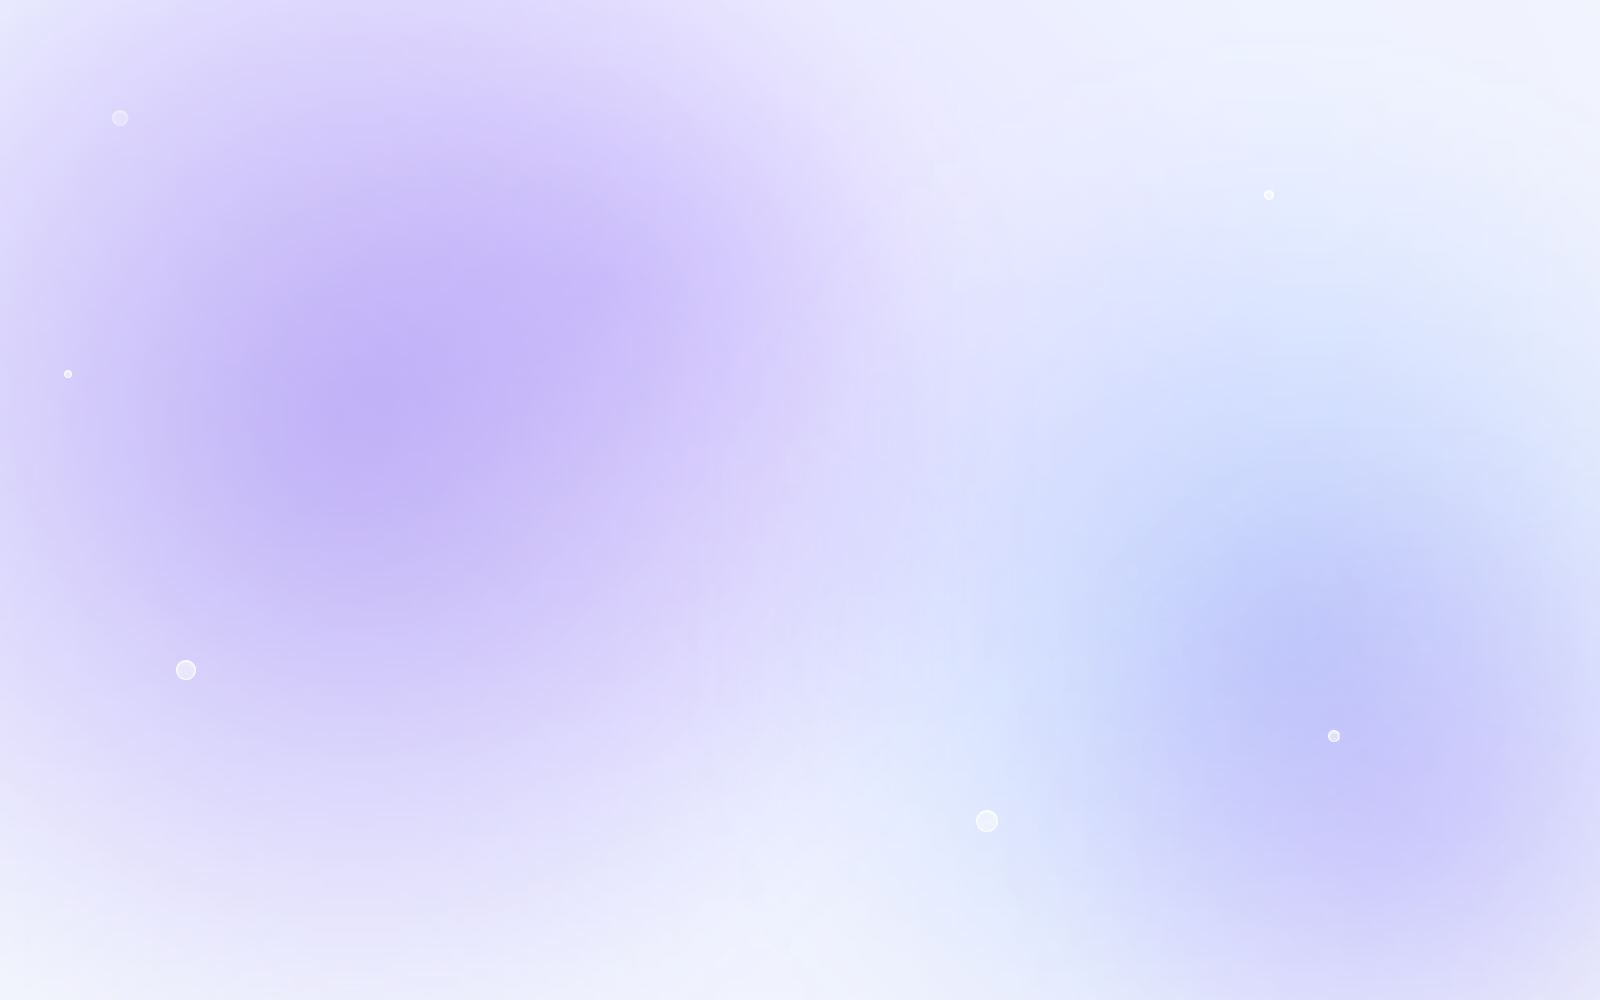
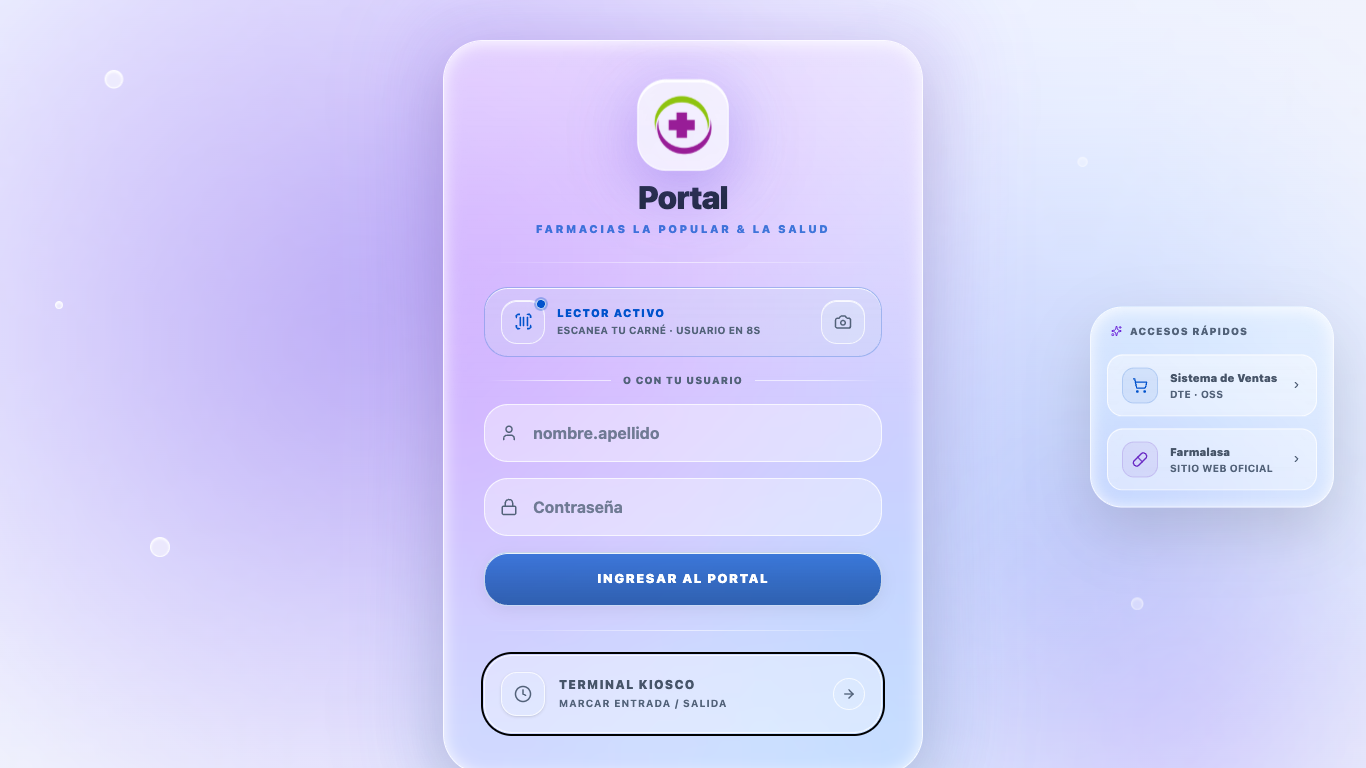
fix(a11y): contraste en CERO — y dos de los tres fallos restantes eran del medidor (v2.227.0)
Contraste en los temas Solid: 23 -> 0.

Corregido de verdad, uno solo: `--danger-text` #f87171 media 4.43:1 sobre el
TINTE del badge danger (#462e3a = tarjeta + danger/12), justo bajo AA. Sobre la
tarjeta plana daba 5.29 y por eso habia pasado siempre. Ahora #fb9a9a: 5.95 /
7.1 / 8.66 sobre tinte, tarjeta y pagina. Mas 17 `text-danger|success|warning`
de AttendanceAuditView que usaban el token de RELLENO como color de texto.

Los otros dos NO eran defectos, y vale anotar por que:
· Los 6 nodos de "General" a 2.51:1 eran la etiqueta de un tab inactivo de
  ViewTabBar medida A MITAD de su transicion de 700ms. El alfa de 0.97 y un
  color que no correspondia a ningun token lo delataron. Con la espera
  correcta: 0.
· Los 2 targets de 36px del kiosco eran mi contexto de Playwright sin
  `hasTouch`. El kiosco real es una pantalla tactil: con `pointer: coarse` los
  mismos botones miden 44.

PENDIENTES CERRADOS
· Kiosco — fuerza data-theme="dark" como esta documentado, 0 bajo AA, 0 targets
  bajo 44 en tactil, 0 errores de pagina.
· Login — 0 targets bajo 44 y 0 controles sin indicador de foco.
· Estados de error de formulario — validacion disparada en vacio con guardia de
  red: 4 marcas de error, 210 nodos, 0 bajo AA.
· Firefox — NO se pudo verificar: no arranca en este entorno (el sandbox le
  bloquea plugin-container). Si se verifico el riesgo concreto que el proyecto
  ya sufrio ahi: en el bundle hay 37 `backdrop-filter` estandar / 37 con
[…]

diff --git a/src/views/AttendanceAuditView.jsx b/src/views/AttendanceAuditView.jsx
@@ -539,14 +539,14 @@ function DayCard({ dateStr, emp, shiftById, timesheets, homeBranchId, branchName
           <div className="flex flex-wrap gap-4">
             {/* Entrada */}
             <div className="flex items-center gap-2">
-              <LogIn size={13} className={entryPunch ? 'text-success' : 'text-content-3'} strokeWidth={2.5} />
+              <LogIn size={13} className={entryPunch ? 'text-success-text' : 'text-content-3'} strokeWidth={2.5} />
               <div>
                 <p className="text-micro font-black uppercase tracking-widest text-content-2">Entrada</p>
                 {entryPunch ? (
                   <div className="flex items-center gap-1.5">
                     <p className="text-body font-black text-content">{fmtTimeCSTStr(entryPunch.timestamp)}</p>
                     {lateMin > 0 && <Badge variant="chart-4" size="sm" uppercase={false}>+{lateMin} min</Badge>}
-                    {isEditedPunch(entryPunch) && <span className="text-micro font-black text-success">✎</span>}
+                    {isEditedPunch(entryPunch) && <span className="text-micro font-black text-success-text">✎</span>}
                   </div>
                 ) : (
                   <p className="text-label font-black text-content-3">—</p>
@@ -563,8 +563,8 @@ function DayCard({ dateStr, emp, shiftById, timesheets, homeBranchId, branchName
                   <div className="flex items-center gap-1.5">
                     <p className="text-body font-black text-content">{fmtTimeCSTStr(exitPunch.timestamp)}</p>
                     {isAutoPunch(exitPunch)  && <span className="text-micro font-black text-chart-3-text">Auto</span>}
-                    {isPendingPunch(exitPunch) && <span className="text-micro font-black text-warning">Pend.</span>}
-                    {isEditedPunch(exitPunch) && <span className="text-micro font-black text-success">✎</span>}
+                    {isPendingPunch(exitPunch) && <span className="text-micro font-black text-warning-text">Pend.</span>}
+                    {isEditedPunch(exitPunch) && <span className="text-micro font-black text-success-text">✎</span>}
                   </div>
                 ) : (
                   <p className="text-label font-black text-content-3">—</p>
@@ -614,7 +614,7 @@ function DayCard({ dateStr, emp, shiftById, timesheets, homeBranchId, branchName
           {inconsistencies.length > 0 && (
             <div className="bg-danger/10 border border-danger/30 rounded-xl px-3 py-2 flex flex-wrap gap-2">
               {inconsistencies.map(inc => (
-                <span key={inc.type} className="text-caption font-bold text-danger flex items-center gap-1">
+                <span key={inc.type} className="text-caption font-bold text-danger-text flex items-center gap-1">
                   ⚠ {inc.label} no registrada
                 </span>
               ))}
@@ -623,7 +623,7 @@ function DayCard({ dateStr, emp, shiftById, timesheets, homeBranchId, branchName
 
           {/* Edited by */}
           {isEditedDay && editedInfo?.details?.auditedByName && (
-            <p className="text-micro font-bold text-success flex items-center gap-1">
+            <p className="text-micro font-bold text-success-text flex items-center gap-1">
               <Check size={9} strokeWidth={3} />
               Editado por {editedInfo.details.auditedByName}
               {editedInfo.details.reason && ` — "${editedInfo.details.reason}"`}
@@ -640,7 +640,7 @@ function DayCard({ dateStr, emp, shiftById, timesheets, homeBranchId, branchName
 
           {/* Pending review note */}
           {isPendDay && dayPunches.find(p => isPendingPunch(p) && !reviewedPunchIds?.has(p.id))?.details?.skipReason && (
-            <p className="text-micro font-bold text-warning flex items-center gap-1">
+            <p className="text-micro font-bold text-warning-text flex items-center gap-1">
               <ShieldAlert size={10} strokeWidth={2.5} />
               {dayPunches.find(p => isPendingPunch(p) && !reviewedPunchIds?.has(p.id)).details.skipReason}
             </p>
@@ -784,10 +784,10 @@ function EmployeeAuditRow({ emp, quinceaDates, shiftById, timesheets, branchName
           )}
           {totalOT > 0 && (
             <div className="flex flex-col items-end min-w-[3rem]">
-              <span className="text-subtitle font-black text-warning tabular-nums leading-none">
-                {totalOT.toFixed(1)}<span className="text-caption font-bold text-warning ml-0.5">h</span>
+              <span className="text-subtitle font-black text-warning-text tabular-nums leading-none">
+                {totalOT.toFixed(1)}<span className="text-caption font-bold text-warning-text ml-0.5">h</span>
               </span>
-              <span className="text-micro font-black uppercase tracking-widest text-warning mt-0.5">extra</span>
+              <span className="text-micro font-black uppercase tracking-widest text-warning-text mt-0.5">extra</span>
             </div>
           )}
           {totalLate > 0 && (
@@ -800,8 +800,8 @@ function EmployeeAuditRow({ emp, quinceaDates, shiftById, timesheets, branchName
           )}
           {totalAbs > 0 && (
             <div className="flex flex-col items-end min-w-[2rem]">
-              <span className="text-subtitle font-black text-danger tabular-nums leading-none">{totalAbs}</span>
-              <span className="text-micro font-black uppercase tracking-widest text-danger mt-0.5">ausencia{totalAbs > 1 ? 's' : ''}</span>
+              <span className="text-subtitle font-black text-danger-text tabular-nums leading-none">{totalAbs}</span>
+              <span className="text-micro font-black uppercase tracking-widest text-danger-text mt-0.5">ausencia{totalAbs > 1 ? 's' : ''}</span>
             </div>
           )}
           {(totalNocturnal + totalNoctOT) > 0 && (
@@ -819,8 +819,8 @@ function EmployeeAuditRow({ emp, quinceaDates, shiftById, timesheets, branchName
           <div className="w-px h-8 bg-divider mx-0.5" />
           {allApproved ? (
             <div className="flex flex-col items-center min-w-[2.5rem]">
-              <ShieldCheck size={16} className="text-success" strokeWidth={2} />
-              <span className="text-micro font-black uppercase tracking-widest text-success mt-0.5">OK</span>
+              <ShieldCheck size={16} className="text-success-text" strokeWidth={2} />
+              <span className="text-micro font-black uppercase tracking-widest text-success-text mt-0.5">OK</span>
             </div>
           ) : (
             <div className="flex flex-col items-end min-w-[2.5rem]">
@@ -1294,7 +1294,7 @@ const AttendanceAuditView = ({ setOverlayActive }) => {
                       {meta.declaredStart && meta.declaredEnd ? (
                         <p className="text-label font-bold text-chart-3-text mt-1">
                           Declara: {meta.declaredStart} – {meta.declaredEnd}
-                          {meta.pinOmitido && <span className="ml-2 text-warning text-micro uppercase tracking-wider font-black">sin PIN</span>}
+                          {meta.pinOmitido && <span className="ml-2 text-warning-text text-micro uppercase tracking-wider font-black">sin PIN</span>}
                         </p>
                       ) : (
                         <p className="text-caption text-content-3 mt-1 italic">No declaró horario — solo registró entrada</p>
@@ -1343,8 +1343,8 @@ const AttendanceAuditView = ({ setOverlayActive }) => {
                 {[
                   { Icon: Users,        label: 'Empleados',   val: withData,          unit: '',  c: 'text-brand-text', bg: 'bg-brand/10' },
                   { Icon: Clock,        label: 'Horas Regulares', val: totReg.toFixed(1), unit: 'h', c: 'text-content-2',  bg: 'bg-surface-card-hover' },
-                  { Icon: TrendingUp,   label: 'Horas Extra',     val: totOT.toFixed(1),  unit: 'h', c: totOT > 0 ? 'text-warning' : 'text-content-3', bg: totOT > 0 ? 'bg-warning/10' : 'bg-surface-card-hover' },
-                  { Icon: CalendarRange,label: 'Ausencias',       val: totAbs,            unit: '',  c: totAbs > 0 ? 'text-danger' : 'text-content-3', bg: totAbs > 0 ? 'bg-danger/10' : 'bg-surface-card-hover' },
+                  { Icon: TrendingUp,   label: 'Horas Extra',     val: totOT.toFixed(1),  unit: 'h', c: totOT > 0 ? 'text-warning-text' : 'text-content-3', bg: totOT > 0 ? 'bg-warning/10' : 'bg-surface-card-hover' },
+                  { Icon: CalendarRange,label: 'Ausencias',       val: totAbs,            unit: '',  c: totAbs > 0 ? 'text-danger-text' : 'text-content-3', bg: totAbs > 0 ? 'bg-danger/10' : 'bg-surface-card-hover' },
                 ].map(({ Icon, label, val, unit, c, bg }) => (
                   <div key={label} data-surface="card" className="p-4 flex flex-col gap-2">
                     <div className="flex items-center gap-2">

diff --git a/src/version.js b/src/version.js
@@ -16,7 +16,46 @@
 // retomar. El resto se lee en CHANGELOG.md, que ademas se puede abrir sin
 // cargar un modulo de JS.
 
-export const APP_VERSION = '2.226.0';
+export const APP_VERSION = '2.227.0';
+
+// v2.227.0 — se cierran los pendientes, y DOS de los tres "fallos" que
+// quedaban eran de mi medidor, no del portal.
+//
+// Contraste: 23 -> **0**. Lo que se corrigio de verdad fue uno solo:
+// `--danger-text` #f87171 media 4.43:1 sobre el TINTE del badge danger
+// (#462e3a = tarjeta + danger/12), justo bajo AA. Sobre la tarjeta plana daba
+// 5.29 y por eso habia pasado siempre. Ahora #fb9a9a: 5.95 sobre el tinte, 7.1
+// sobre la tarjeta, 8.66 sobre la pagina. Mas 17 `text-danger|success|warning`
+// de AttendanceAuditView que seguian usando el token de RELLENO como color de
+// texto.
+//
+// Los otros dos NO eran defectos:
+//   · Los 6 nodos de "General" a 2.51:1 eran la etiqueta de un tab inactivo de
+//     `ViewTabBar` medida **a mitad de su transicion de 700ms**. El alfa de
+//     0.97 y un color que no correspondia a ningun token lo delataron. Con la
+//     espera correcta: 0.
+//   · Los 2 targets de 36px del kiosco eran mi contexto de Playwright sin
+//     `hasTouch`. El kiosco REAL es una pantalla tactil: con `pointer: coarse`
+//     los mismos botones miden 44 y quedan en 0.
+//
+// Pendientes que se cierran:
+//   · KIOSCO — fuerza `data-theme="dark"` como esta documentado, 0 nodos bajo
+//     AA, 0 targets bajo 44 (tactil), 0 errores de pagina.
+//   · LOGIN — 0 targets bajo 44 y **0 controles sin indicador de foco**.
+//   · ESTADOS DE ERROR de formulario — validacion disparada con el formulario
+//     vacio (la escritura la aborta un guardia de red): 4 marcas de error
+//     renderizadas, 210 nodos medidos, 0 bajo AA.
+//   · FIREFOX — **no se pudo verificar**: no arranca en este entorno (el
+//     sandbox de macOS le bloquea `plugin-container`). Lo que si se verifico es
+//     el riesgo concreto que este proyecto ya sufrio ahi: que Lightning CSS
+//     descarte la propiedad estandar y deje solo `-webkit-backdrop-filter`.
+//     En el bundle: 37 estandar / 37 con prefijo, **0 reglas con solo el
+//     prefijo**. El vidrio le llega a Firefox.
+//
+// Con los modales abiertos: 31 modales, 1,507 nodos de texto, 0 bajo AA.
+// Foco: 8 dialogos, entra / atrapa / devuelve, 0 fallos.
+// Targets: 1,003 controles, 7 bajo 44 y son las barras del grafico.
+// gate:design 0/25 · gate:doc y eslint limpios.
 
 // v2.226.0 — Mantenimiento: lista completa con switch, y el aviso que no se leia.
 //

diff --git a/src/index.css b/src/index.css
@@ -769,7 +769,12 @@
      misma tarjeta (T7) — el par bg/texto de :root está pensado para
      tarjeta clara, invertido aquí. Mismo motivo para success/warning/
      danger-text (fix del bug real de Badge.jsx). */
-  --success-text: #34d399; --warning-text: #fbbf24; --danger-text: #f87171;
+  --success-text: #34d399; --warning-text: #fbbf24;
+  /* 2026-07-29: #f87171 daba 4.43:1 sobre el TINTE del badge danger
+     (#462e3a = tarjeta + danger/12), justo bajo el 4.5 de AA. Sobre la
+     tarjeta plana medía 5.29 y por eso había pasado. #fb9a9a da 5.95
+     sobre el tinte, 7.1 sobre la tarjeta y 8.66 sobre la página. */
+  --danger-text: #fb9a9a;
   /* Los CINCO categóricos, aclarados para fondo oscuro. */
   --chart-1-text: #60a5fa; --chart-3-text: #a78bfa; --chart-4-text: #fb923c;
   --chart-6-text: #f472b6; --chart-9-text: #2dd4bf;
@@ -944,7 +949,12 @@
   --chart-6-text: #f472b6; --chart-9-text: #2dd4bf;
   --chart-2-text: var(--success-text); --chart-5-text: var(--chart-9-text);
   --chart-7-text: var(--warning-text); --chart-8-text: var(--content-2);
-  --success-text: #34d399; --warning-text: #fbbf24; --danger-text: #f87171;
+  --success-text: #34d399; --warning-text: #fbbf24;
+  /* 2026-07-29: #f87171 daba 4.43:1 sobre el TINTE del badge danger
+     (#462e3a = tarjeta + danger/12), justo bajo el 4.5 de AA. Sobre la
+     tarjeta plana medía 5.29 y por eso había pasado. #fb9a9a da 5.95
+     sobre el tinte, 7.1 sobre la tarjeta y 8.66 sobre la página. */
+  --danger-text: #fb9a9a;
   --brand-text:   #60A5FA; /* D1.1 — 5.75:1 sobre la tarjeta #1e293b */
 
   --surface-card:       rgba(30,41,59,1.00);
